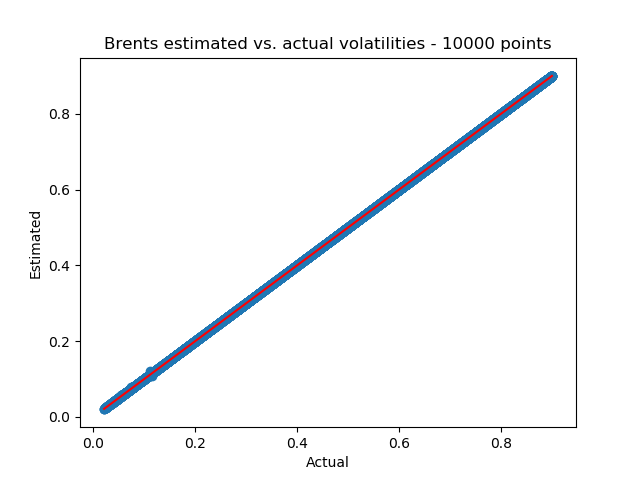
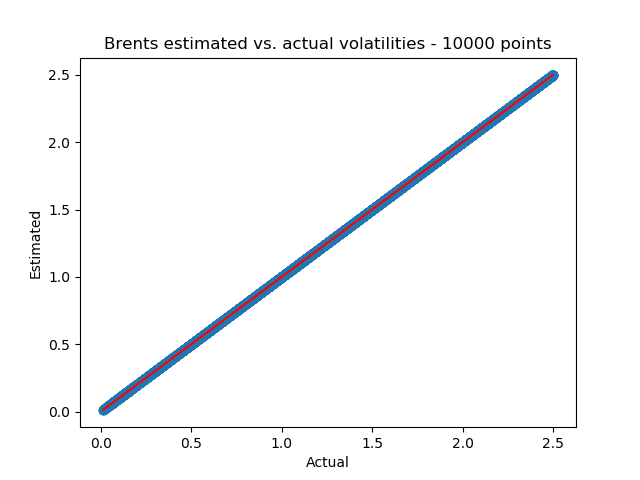
testing with more realistic range of values

diff --git a/black-scholes/src/main.py b/black-scholes/src/main.py
@@ -32,7 +32,7 @@ if __name__ == '__main__':
     log.info('Testing custom module for LHS...')
 
     # Generate dictionary with ranges of parameters
-    type_artificial_data = 'narrow'
+    type_artificial_data = 'realistic_like'
     dict_ranges = get_dictionary_ranges(type_range=type_artificial_data)
 
     log.info('Latin Hypercube Sampling with multi-dimensional uniformity...')
